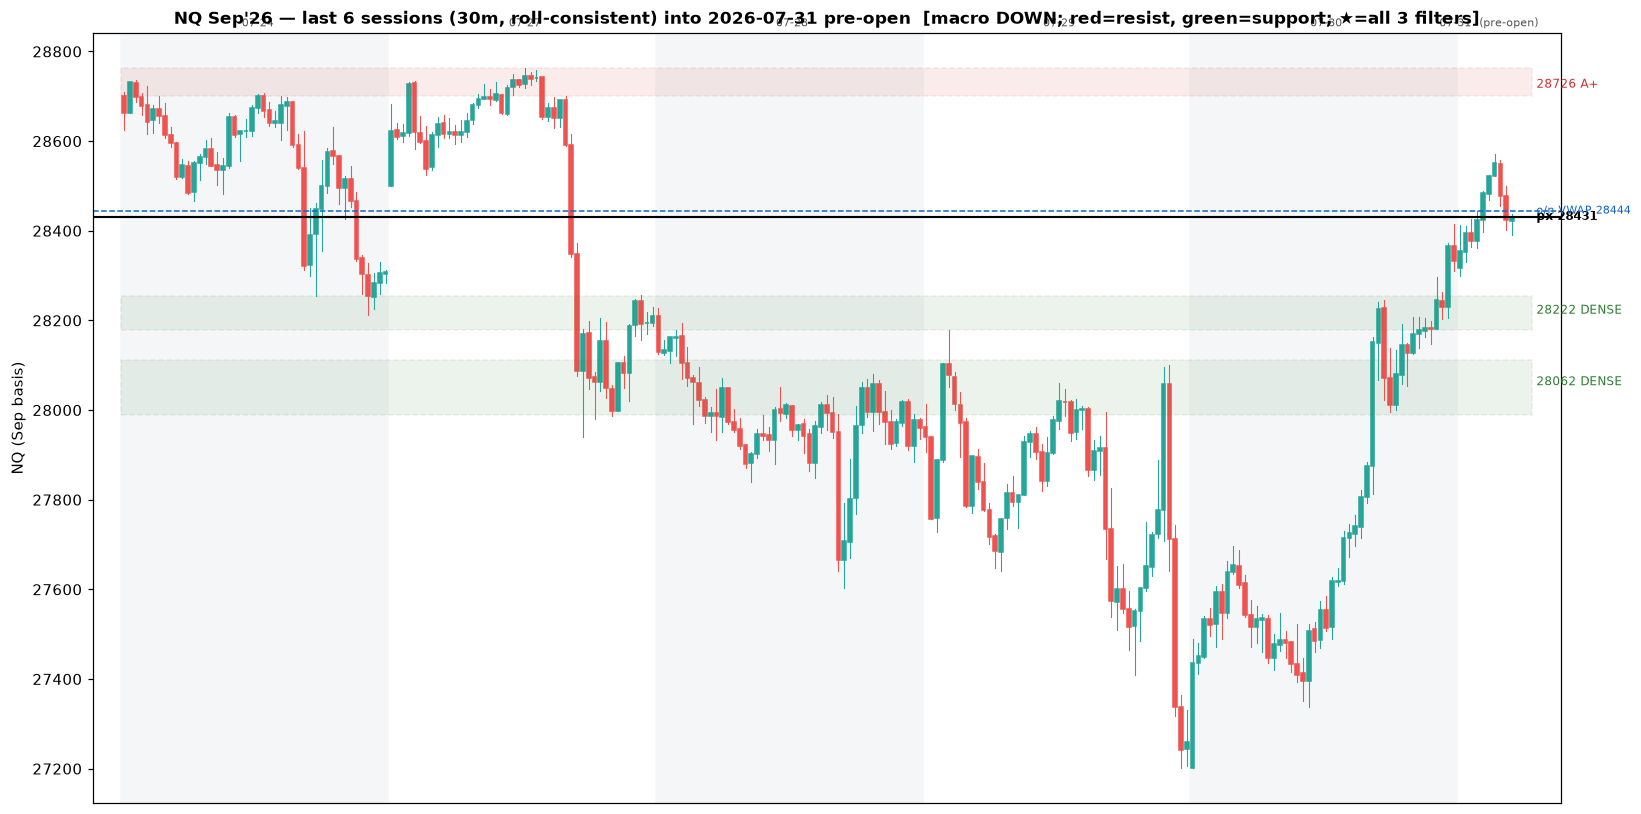
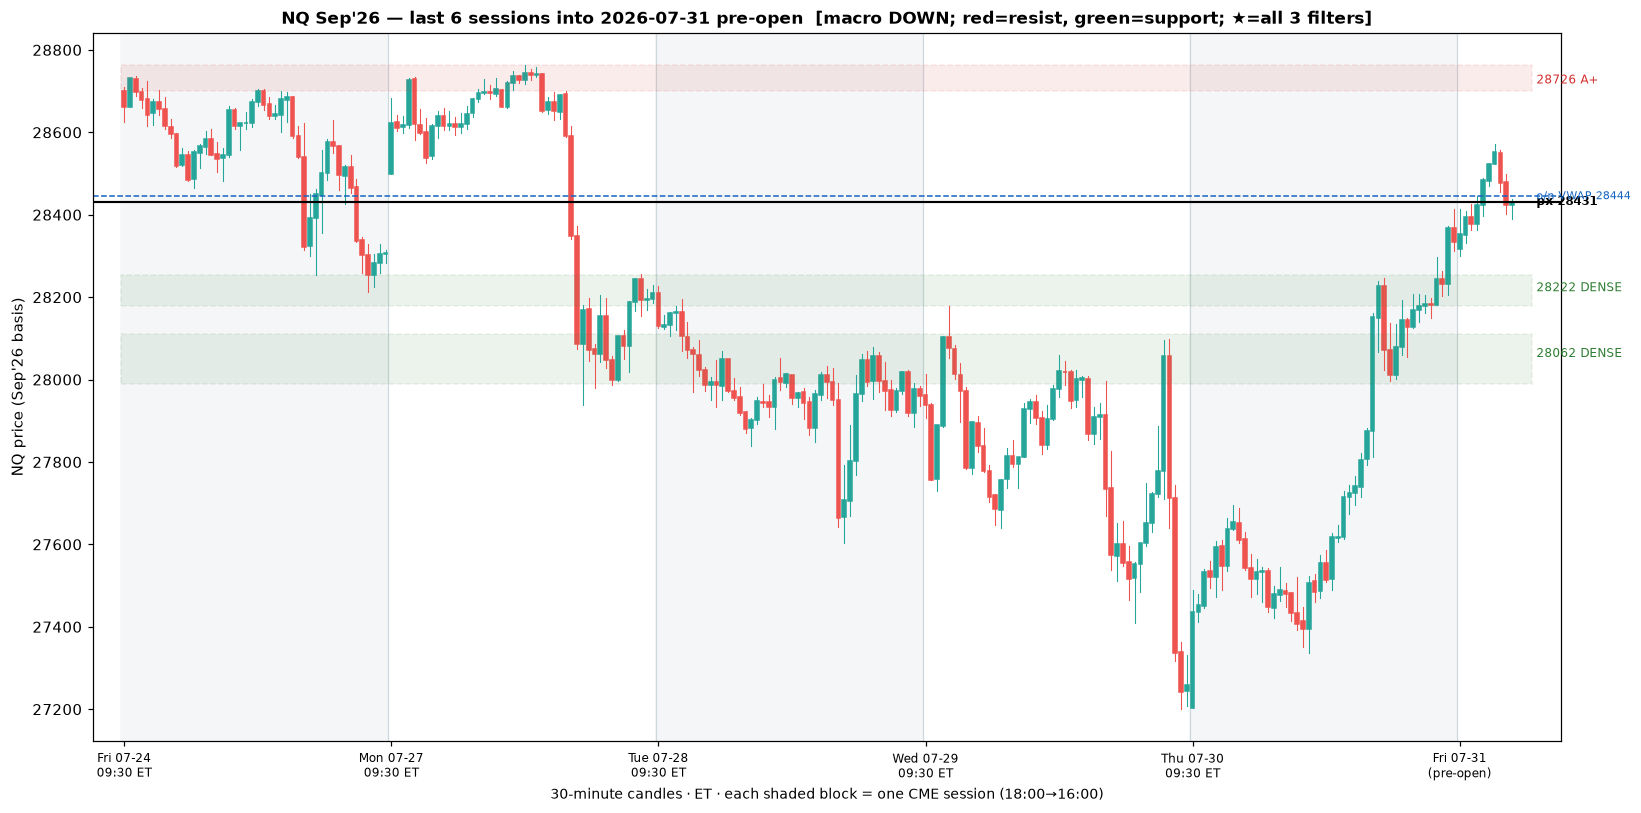
Chart: keep a bottom date/time axis and label the candle timeframe
Restore a real bottom timeline (per-session date ticks at each 09:30 RTH open +
session dividers) instead of stripping the x-axis, and label the axis with the
candle timeframe (30-min, ET) and session definition. Standing rule: date
timeline + timeframe stay on every chart.

Claude-Session: https://claude.ai/code/session_016aQdjV8pEkud2m7UoLztFR

diff --git a/scripts/three_filter_read.py b/scripts/three_filter_read.py
@@ -117,16 +117,23 @@ def _chart(df30, ids, bysess, az, px, vwap, sd, bias, cur_date):
     bars = pd.concat([bysess[s] for s in show])
     a = bars.reset_index()
     fig, ax = plt.subplots(figsize=(15, 7.5))
-    # session shading + dividers
+    # session shading + dividers; build a real date/time timeline for the bottom axis
     xstart = 0
+    xticks, xlabels = [], []
+    ts = a["index"] if "index" in a.columns else a.iloc[:, 0]  # per-bar timestamp
     for k, s in enumerate(show):
         n = len(bysess[s])
         if k % 2 == 0:
             ax.axvspan(xstart - 0.5, xstart + n - 0.5, color="#f4f6f8", zorder=0)
-        r = rth(bysess[s])
-        lab = pd.Timestamp(s).strftime("%m-%d") + ("  (pre-open)" if s == show[-1] else "")
-        ax.text(xstart + n / 2, 1.005, lab, transform=ax.get_xaxis_transform(),
-                ha="center", va="bottom", fontsize=7.5, color="#555")
+        if k > 0:
+            ax.axvline(xstart - 0.5, color="#cfd8dc", lw=0.8, zorder=0)
+        # bottom tick at each session's RTH open (fallback: session start)
+        gi = bysess[s]
+        ropen = gi.index.get_indexer([gi[(gi.index.time >= pd.Timestamp("09:30").time())].index[0]])[0] \
+            if len(gi[(gi.index.time >= pd.Timestamp("09:30").time())]) else 0
+        d = pd.Timestamp(s)
+        xticks.append(xstart + ropen)
+        xlabels.append(d.strftime("%a %m-%d") + ("\n(pre-open)" if s == show[-1] else "\n09:30 ET"))
         xstart += n
     for i, row in a.iterrows():
         up = row["close"] >= row["open"]; c = "#26a69a" if up else "#ef5350"
@@ -151,10 +158,12 @@ def _chart(df30, ids, bysess, az, px, vwap, sd, bias, cur_date):
     ax.axhline(vwap, color="#1565c0", lw=1.0, ls="--")
     ax.text(m + 3.2, vwap, f"o/n VWAP {vwap:.0f}", color="#1565c0", fontsize=7, va="center")
     bt_txt = {1: "UP", -1: "DOWN", 0: "MIXED"}[bias]
-    ax.set_title(f"NQ Sep'26 — last {CHART_SESSIONS} sessions (30m, roll-consistent) into {cur_date} pre-open  "
+    ax.set_title(f"NQ Sep'26 — last {CHART_SESSIONS} sessions into {cur_date} pre-open  "
                  f"[macro {bt_txt}; red=resist, green=support; ★=all 3 filters]", fontsize=11, fontweight="bold")
-    ax.set_xticks([]); ax.margins(x=0.02)
-    ax.set_ylabel("NQ (Sep basis)")
+    ax.set_xticks(xticks); ax.set_xticklabels(xlabels, fontsize=8)
+    ax.margins(x=0.02)
+    ax.set_ylabel("NQ price (Sep'26 basis)")
+    ax.set_xlabel("30-minute candles · ET · each shaded block = one CME session (18:00→16:00)", fontsize=9)
     plt.tight_layout()
     out = ROOT / "reports" / "img" / "nq_three_filter_today.png"
     plt.savefig(out, dpi=110, bbox_inches="tight")
